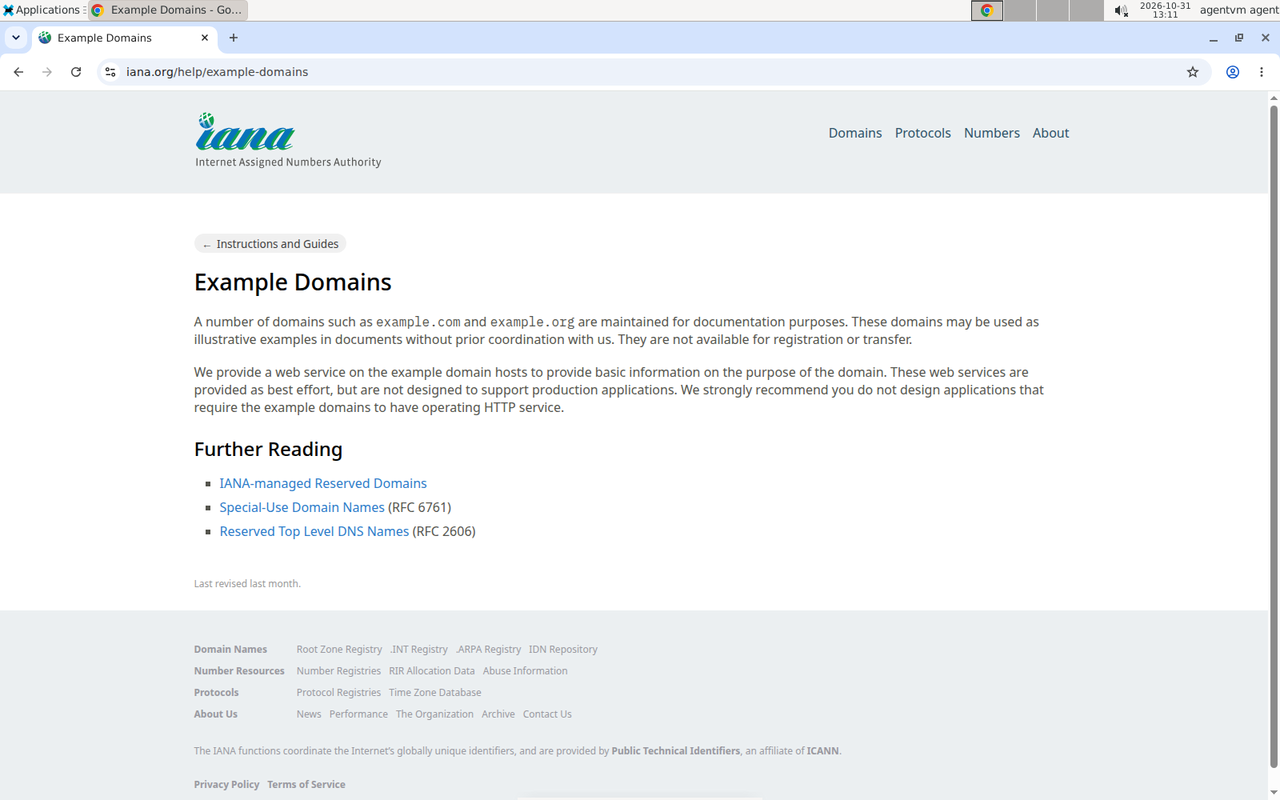
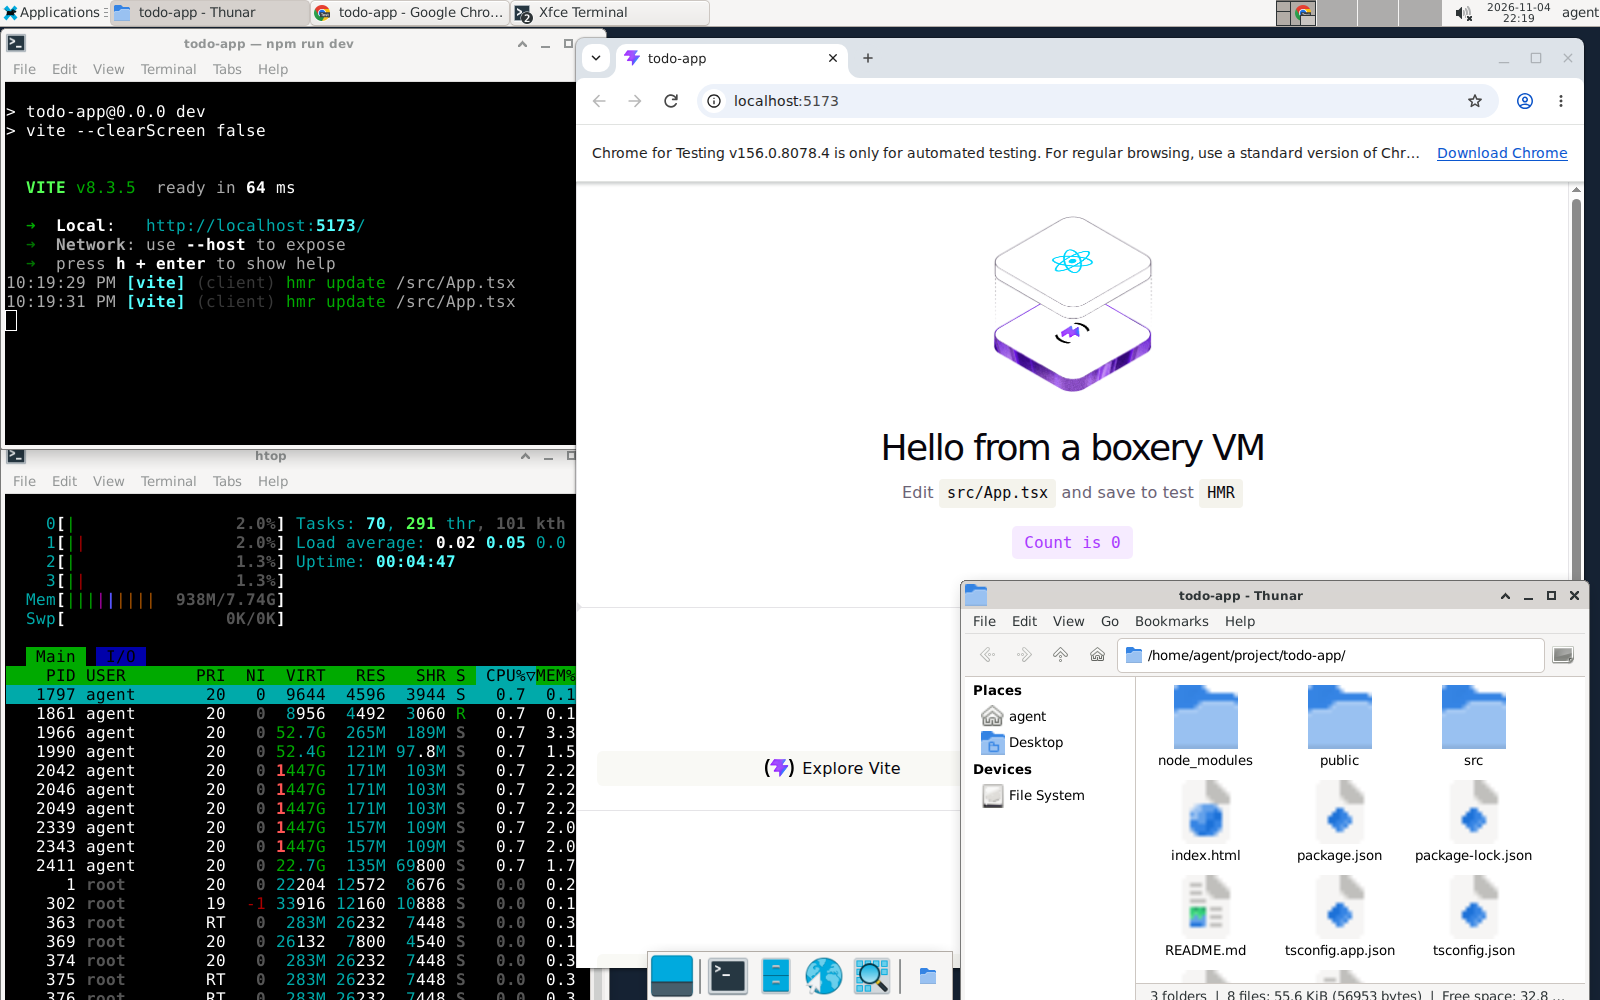
docs(readme): show a full desktop in the VM screenshot, with a caption (#174)
The old screenshot was a maximized browser and read as "a browser", not a
VM. The new one shows the XFCE desktop with a Vite dev server and htop in
terminals, a file manager on the project, and Chrome on localhost, plus a
one-line caption saying what it is.

diff --git a/README.md b/README.md
@@ -149,7 +149,9 @@ And ask: *"Clone my repo in a VM, start the dev server, and screenshot the homep
 You can also drive VMs yourself with the [CLI](docs/cli.md): `boxery attach demo`, `boxery desktop demo`.
 
 <p align="center">
-  <img src="https://raw.githubusercontent.com/modem-dev/boxery/master/docs/computer-use.png" alt="A boxery VM's desktop: Chrome being driven by a laptop agent through vm_browser" width="760">
+  <img src="https://raw.githubusercontent.com/modem-dev/boxery/master/docs/computer-use.png" alt="A boxery VM's XFCE desktop: a Vite dev server and htop in terminals, a file manager, and Chrome showing the app on localhost" width="760">
+  <br>
+  <sub>Every VM is a full Linux desktop your agent can drive: terminals, a file manager, and a real Chrome showing the dev server it just started.</sub>
 </p>
 
 ## Documentation
